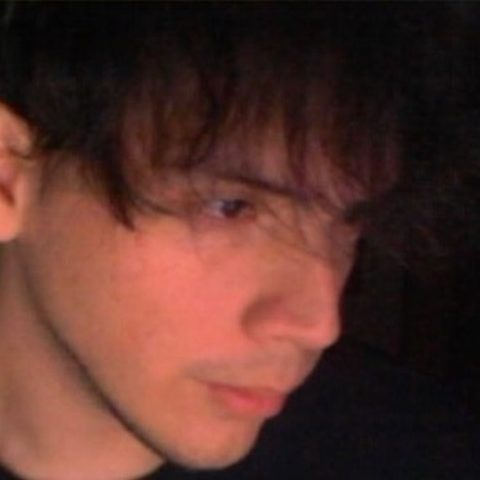
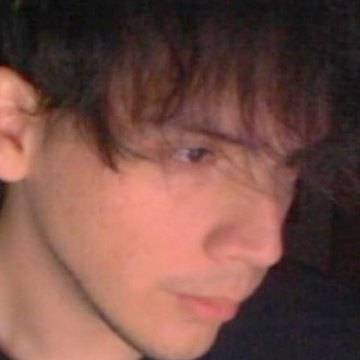
feat(landing): redesign team section with project roles, skill tags and circular photos

diff --git a/index.html b/index.html
@@ -311,14 +311,15 @@
     <section class="section section-divider" id="team" aria-labelledby="team-title">
       <div class="container">
         <h2 id="team-title" data-i18n="team.title">Team</h2>
+        <p class="team-intro" data-i18n="team.intro"></p>
         <ul class="team-grid">
-          <li class="card member"><img src="assets/img/team/diego-seijas.jpg" alt="Diego Seijas Vasquez" loading="lazy" width="480" height="480"><h3>Diego Seijas Vasquez</h3><p data-i18n="team.career">Software Engineering · UPC</p></li>
-          <li class="card member"><img src="assets/img/team/karito.jpg" alt="Karito Dianeth Medina Chocce" loading="lazy" width="480" height="480"><h3>Karito Medina Chocce</h3><p data-i18n="team.career">Software Engineering · UPC</p></li>
-          <li class="card member"><img src="assets/img/team/camilla.jpg" alt="Camilla Leonor Espinoza Vivas" loading="lazy" width="480" height="480"><h3>Camilla Espinoza Vivas</h3><p data-i18n="team.career">Software Engineering · UPC</p></li>
-          <li class="card member"><div class="avatar" aria-hidden="true">SD</div><h3>Sandro Dinklange Arevalo</h3><p data-i18n="team.career">Software Engineering · UPC</p></li>
-          <li class="card member"><img src="assets/img/team/jose-bautista.jpg" alt="Jose Diego Bautista Rivera" loading="lazy" width="480" height="480"><h3>Jose Diego Bautista Rivera</h3><p data-i18n="team.career">Software Engineering · UPC</p></li>
-          <li class="card member"><img src="assets/img/team/jhoan.jpg" alt="Jhoan Darner Janampa Gutierrez" loading="lazy" width="480" height="480"><h3>Jhoan Janampa Gutierrez</h3><p data-i18n="team.career">Software Engineering · UPC</p></li>
-          <li class="card member"><img src="assets/img/team/pedro.jpg" alt="Pedro Omar Lecca Villalobos" loading="lazy" width="480" height="480"><h3>Pedro Lecca Villalobos</h3><p data-i18n="team.career">Software Engineering · UPC</p></li>
+          <li class="card member"><img src="assets/img/team/diego-seijas.jpg" alt="Diego Seijas Vasquez" loading="lazy" width="360" height="360"><h3>Diego Seijas Vasquez</h3><p class="role" data-i18n="team.role.diego"></p><ul class="skills" aria-label="Skills"><li>Spring Boot</li><li>Flask</li><li>PostgreSQL</li></ul></li>
+          <li class="card member"><img src="assets/img/team/karito.jpg" alt="Karito Dianeth Medina Chocce" loading="lazy" width="360" height="360"><h3>Karito Medina Chocce</h3><p class="role" data-i18n="team.role.karito"></p><ul class="skills" aria-label="Skills"><li>Figma</li><li>TypeScript</li><li>Kotlin</li></ul></li>
+          <li class="card member"><img src="assets/img/team/camilla.jpg" alt="Camilla Leonor Espinoza Vivas" loading="lazy" width="360" height="360"><h3>Camilla Espinoza Vivas</h3><p class="role" data-i18n="team.role.camilla"></p><ul class="skills" aria-label="Skills"><li>Angular</li><li>Spring Boot</li><li>Swagger</li></ul></li>
+          <li class="card member"><div class="avatar" role="img" aria-label="Sandro Dinklange Arevalo">SD</div><h3>Sandro Dinklange Arevalo</h3><p class="role" data-i18n="team.role.sandro"></p><ul class="skills" aria-label="Skills"><li>Python</li><li>C++</li><li>C#</li></ul></li>
+          <li class="card member"><img src="assets/img/team/jose-bautista.jpg" alt="Jose Diego Bautista Rivera" loading="lazy" width="360" height="360"><h3>Jose Diego Bautista Rivera</h3><p class="role" data-i18n="team.role.jose"></p><ul class="skills" aria-label="Skills"><li>DDD</li><li>PostgreSQL</li><li>GitFlow</li></ul></li>
+          <li class="card member"><img src="assets/img/team/jhoan.jpg" alt="Jhoan Darner Janampa Gutierrez" loading="lazy" width="360" height="360"><h3>Jhoan Janampa Gutierrez</h3><p class="role" data-i18n="team.role.jhoan"></p><ul class="skills" aria-label="Skills"><li>HTML/CSS/JS</li><li>GitFlow</li><li>DDD</li></ul></li>
+          <li class="card member"><img src="assets/img/team/pedro.jpg" alt="Pedro Omar Lecca Villalobos" loading="lazy" width="360" height="360"><h3>Pedro Lecca Villalobos</h3><p class="role" data-i18n="team.role.pedro"></p><ul class="skills" aria-label="Skills"><li>Spring Boot</li><li>PostgreSQL</li><li>Docker</li></ul></li>
         </ul>
       </div>
     </section>

diff --git a/assets/css/styles.css b/assets/css/styles.css
@@ -189,12 +189,16 @@ a { color: inherit; }
 .quote footer { color: var(--mg-slate); font-size: 14px; }
 
 /* Team */
-.team-grid { list-style: none; padding: 0; margin: 0; display: grid; grid-template-columns: repeat(4, 1fr); gap: 16px; }
-.member { padding: 16px; }
-.member img, .member .avatar { width: 100%; height: auto; aspect-ratio: 16 / 9; object-fit: cover; object-position: center 30%; border-radius: 8px; margin-bottom: 16px; }
-.member .avatar { display: grid; place-items: center; background: var(--mg-primary-container); color: var(--mg-primary); font-weight: 700; font-size: 32px; }
-.member h3 { font-size: 18px; font-weight: 500; margin-bottom: 8px; }
-.member p { color: var(--mg-slate); font-size: 14px; }
+.team-intro { max-width: 720px; margin: -12px 0 32px; color: var(--mg-slate); font-size: 18px; }
+.team-grid { list-style: none; padding: 0; margin: 0; display: flex; flex-wrap: wrap; justify-content: center; gap: 20px; }
+.member { flex: 0 1 calc((100% - 60px) / 4); min-width: 220px; display: flex; flex-direction: column; align-items: center; text-align: center; padding: 28px 14px 24px; transition: box-shadow .15s, transform .15s; }
+.member:hover { box-shadow: 0 6px 18px rgba(11, 31, 42, .12); transform: translateY(-2px); }
+.member img, .member .avatar { width: 112px; height: 112px; flex-shrink: 0; border-radius: 50%; object-fit: cover; object-position: center 25%; border: 3px solid var(--mg-primary-container); margin-bottom: 14px; }
+.member .avatar { display: grid; place-items: center; background: var(--mg-primary-container); color: var(--mg-primary); font-weight: 700; font-size: 34px; }
+.member h3 { font-size: 18px; font-weight: 600; margin-bottom: 4px; }
+.member .role { color: var(--mg-primary); font-weight: 500; font-size: 14px; line-height: 1.35; min-height: 38px; }
+.skills { list-style: none; padding: 0; margin: 14px 0 0; display: flex; flex-wrap: wrap; justify-content: center; gap: 5px; }
+.skills li { font-size: 12px; font-weight: 500; padding: 3px 7px; border-radius: 999px; white-space: nowrap; background: var(--mg-bg); color: var(--mg-slate); border: 1px solid var(--mg-border); }
 
 /* Final CTA and footer */
 .final-cta { background: var(--mg-primary); color: #fff; padding: 56px 0; }
@@ -230,7 +234,7 @@ a { color: inherit; }
   .hero-inner { grid-template-columns: 1fr; }
   .steps { grid-template-columns: repeat(2, 1fr); gap: 24px; }
   .steps li::after { display: none; }
-  .team-grid { grid-template-columns: repeat(3, 1fr); }
+  .member { flex-basis: calc((100% - 40px) / 3); }
 }
 
 @media (max-width: 960px) {
@@ -256,7 +260,12 @@ a { color: inherit; }
   .zone-grid { grid-template-columns: 1fr; }
   .steps { grid-template-columns: 1fr; }
   .section { padding: 48px 0; }
-  .team-grid { grid-template-columns: repeat(2, 1fr); }
+  .team-grid { gap: 12px; }
+  .member { flex-basis: 100%; min-width: 0; display: grid; grid-template-columns: 72px 1fr; column-gap: 16px; align-items: center; text-align: left; padding: 16px; }
+  .member img, .member .avatar { grid-row: 1 / span 3; width: 72px; height: 72px; margin: 0; font-size: 24px; }
+  .member h3 { margin: 0; }
+  .member .role { min-height: 0; }
+  .skills { justify-content: flex-start; margin-top: 8px; }
   .form-grid { grid-template-columns: 1fr; }
   .result-value { font-size: 34px; }
   .pilot-dialog { padding: 20px; }
@@ -265,5 +274,6 @@ a { color: inherit; }
 
 @media (prefers-reduced-motion: reduce) {
   html { scroll-behavior: auto; }
-  .btn { transition: none; }
+  .btn, .member { transition: none; }
+  .member:hover { transform: none; }
 }

diff --git a/assets/js/i18n.js b/assets/js/i18n.js
@@ -49,7 +49,15 @@ window.MG_I18N = {
     'product.title': 'About-the-Product', 'product.video': 'Product video coming soon', 'product.heard': 'What our interviews showed',
     'product.q1': 'All the warehouse managers we interviewed had lost goods because a deviation was noticed too late.', 'product.q1.src': 'Interviews with warehouse managers · Lima',
     'product.q2': 'Preparing an environmental report for an audit takes quality control teams one to three days of manual transcription.', 'product.q2.src': 'Interviews with quality control leads · Lima',
-    'team.title': 'Team', 'team.career': 'Software Engineering · UPC',
+    'team.title': 'Team',
+    'team.intro': 'Seven Software Engineering students at UPC building MachineGuard for the course Desarrollo de Soluciones IoT (2026-20).',
+    'team.role.diego': 'Backend: Edge Processing and Traceability',
+    'team.role.karito': 'Lean UX and product strategy',
+    'team.role.camilla': 'Environmental Monitoring and dashboard',
+    'team.role.sandro': 'Requirements and user research',
+    'team.role.jose': 'Strategic DDD and database design',
+    'team.role.jhoan': 'Landing Page and Customer Acquisition',
+    'team.role.pedro': 'Product Backlog and IAM',
     'final.title': 'Request a MachineGuard pilot', 'final.d': 'See your warehouse conditions clearly. Start with a free MachineGuard pilot.',
     'footer.terms': 'Terms', 'footer.privacy': 'Privacy', 'footer.contact': 'Contact',
     'pilot.title': 'Request a free pilot', 'pilot.lead': 'Try MachineGuard for 30 days in your warehouse with assisted installation.',
@@ -113,7 +121,15 @@ window.MG_I18N = {
     'product.title': 'Sobre el producto', 'product.video': 'Video del producto próximamente', 'product.heard': 'Lo que mostraron nuestras entrevistas',
     'product.q1': 'Todos los jefes de almacén que entrevistamos habían perdido mercadería por detectar una desviación demasiado tarde.', 'product.q1.src': 'Entrevistas a jefes de almacén · Lima',
     'product.q2': 'Preparar un reporte ambiental para una auditoría toma a los equipos de calidad de uno a tres días de transcripción manual.', 'product.q2.src': 'Entrevistas a encargados de control de calidad · Lima',
-    'team.title': 'Equipo', 'team.career': 'Ingeniería de Software · UPC',
+    'team.title': 'Equipo',
+    'team.intro': 'Siete estudiantes de Ingeniería de Software de la UPC que construyen MachineGuard en el curso Desarrollo de Soluciones IoT (2026-20).',
+    'team.role.diego': 'Backend: Edge Processing y Trazabilidad',
+    'team.role.karito': 'Lean UX y estrategia de producto',
+    'team.role.camilla': 'Environmental Monitoring y dashboard',
+    'team.role.sandro': 'Requisitos e investigación de usuarios',
+    'team.role.jose': 'DDD estratégico y diseño de base de datos',
+    'team.role.jhoan': 'Landing Page y Customer Acquisition',
+    'team.role.pedro': 'Product Backlog e IAM',
     'final.title': 'Solicite un piloto de MachineGuard', 'final.d': 'Vea con claridad las condiciones de su almacén. Comience con un piloto gratuito de MachineGuard.',
     'footer.terms': 'Términos', 'footer.privacy': 'Privacidad', 'footer.contact': 'Contacto',
     'pilot.title': 'Solicitar un piloto gratuito', 'pilot.lead': 'Pruebe MachineGuard 30 días en su almacén con instalación asistida.',
